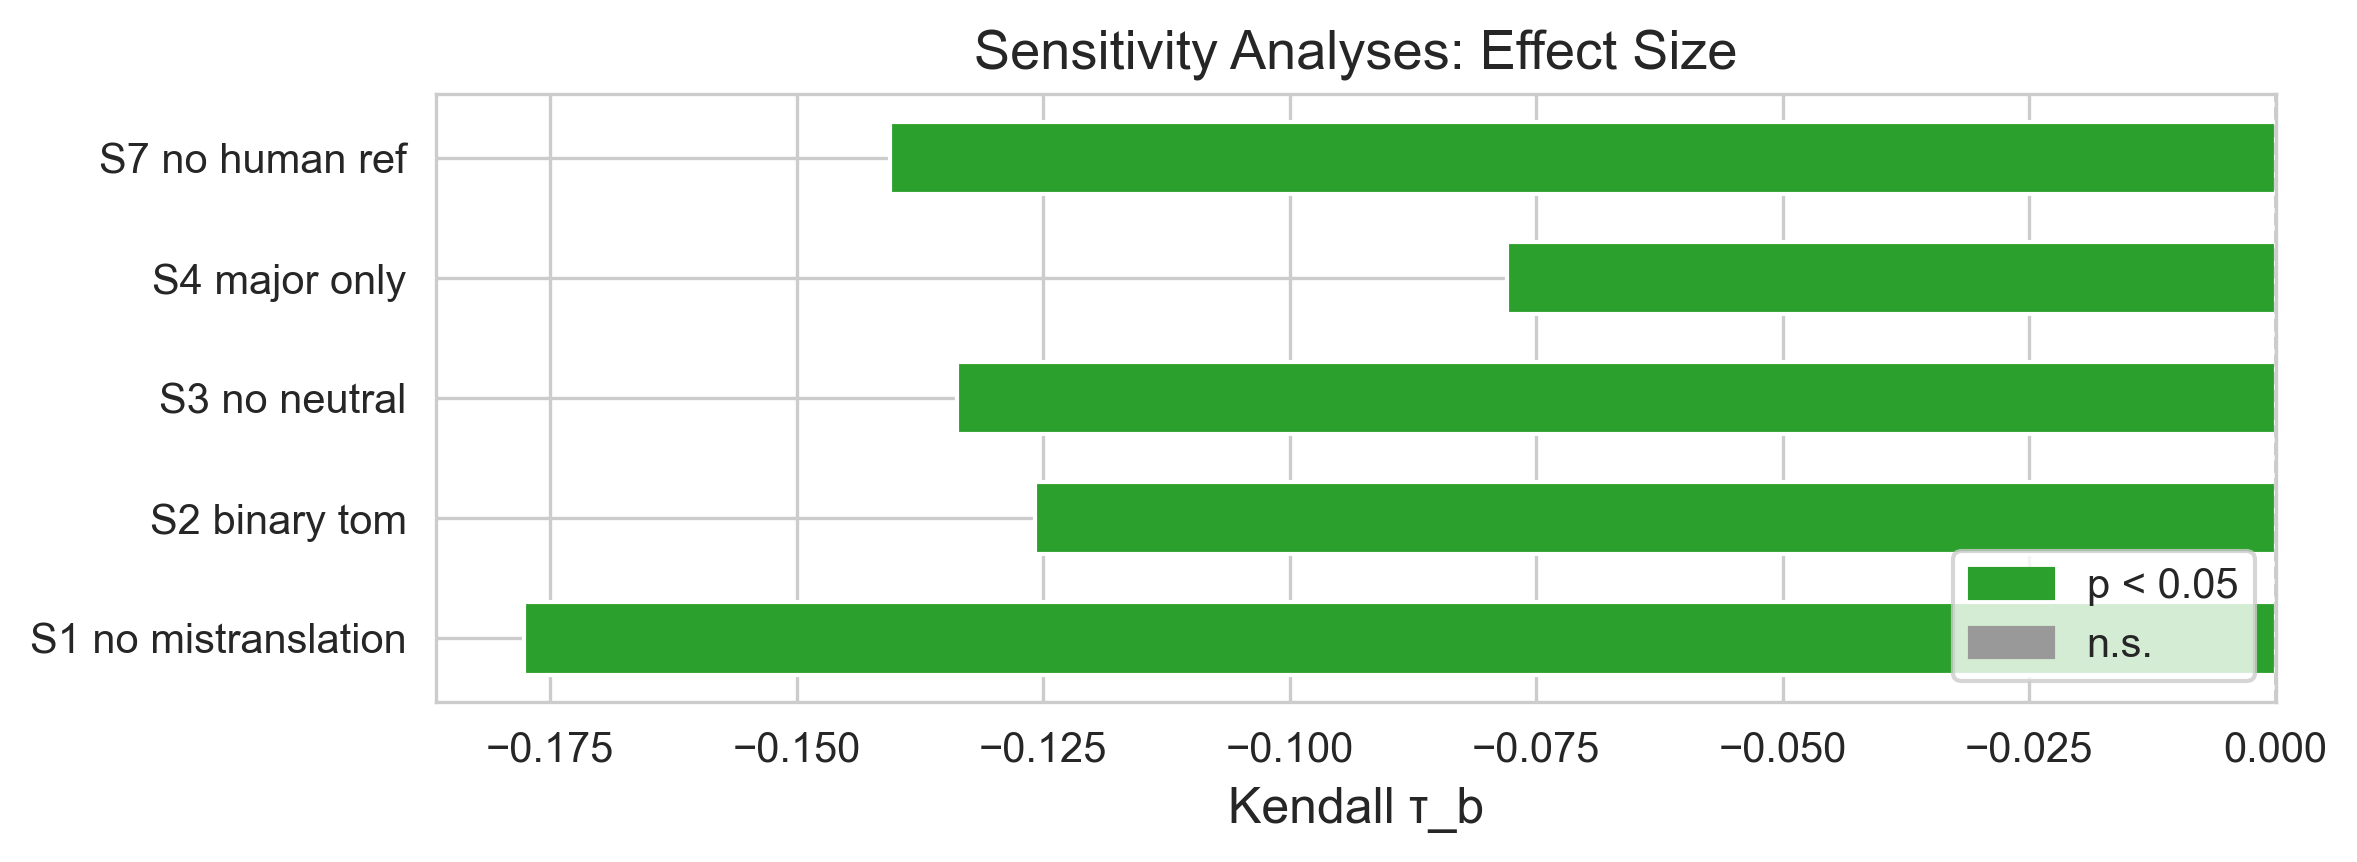
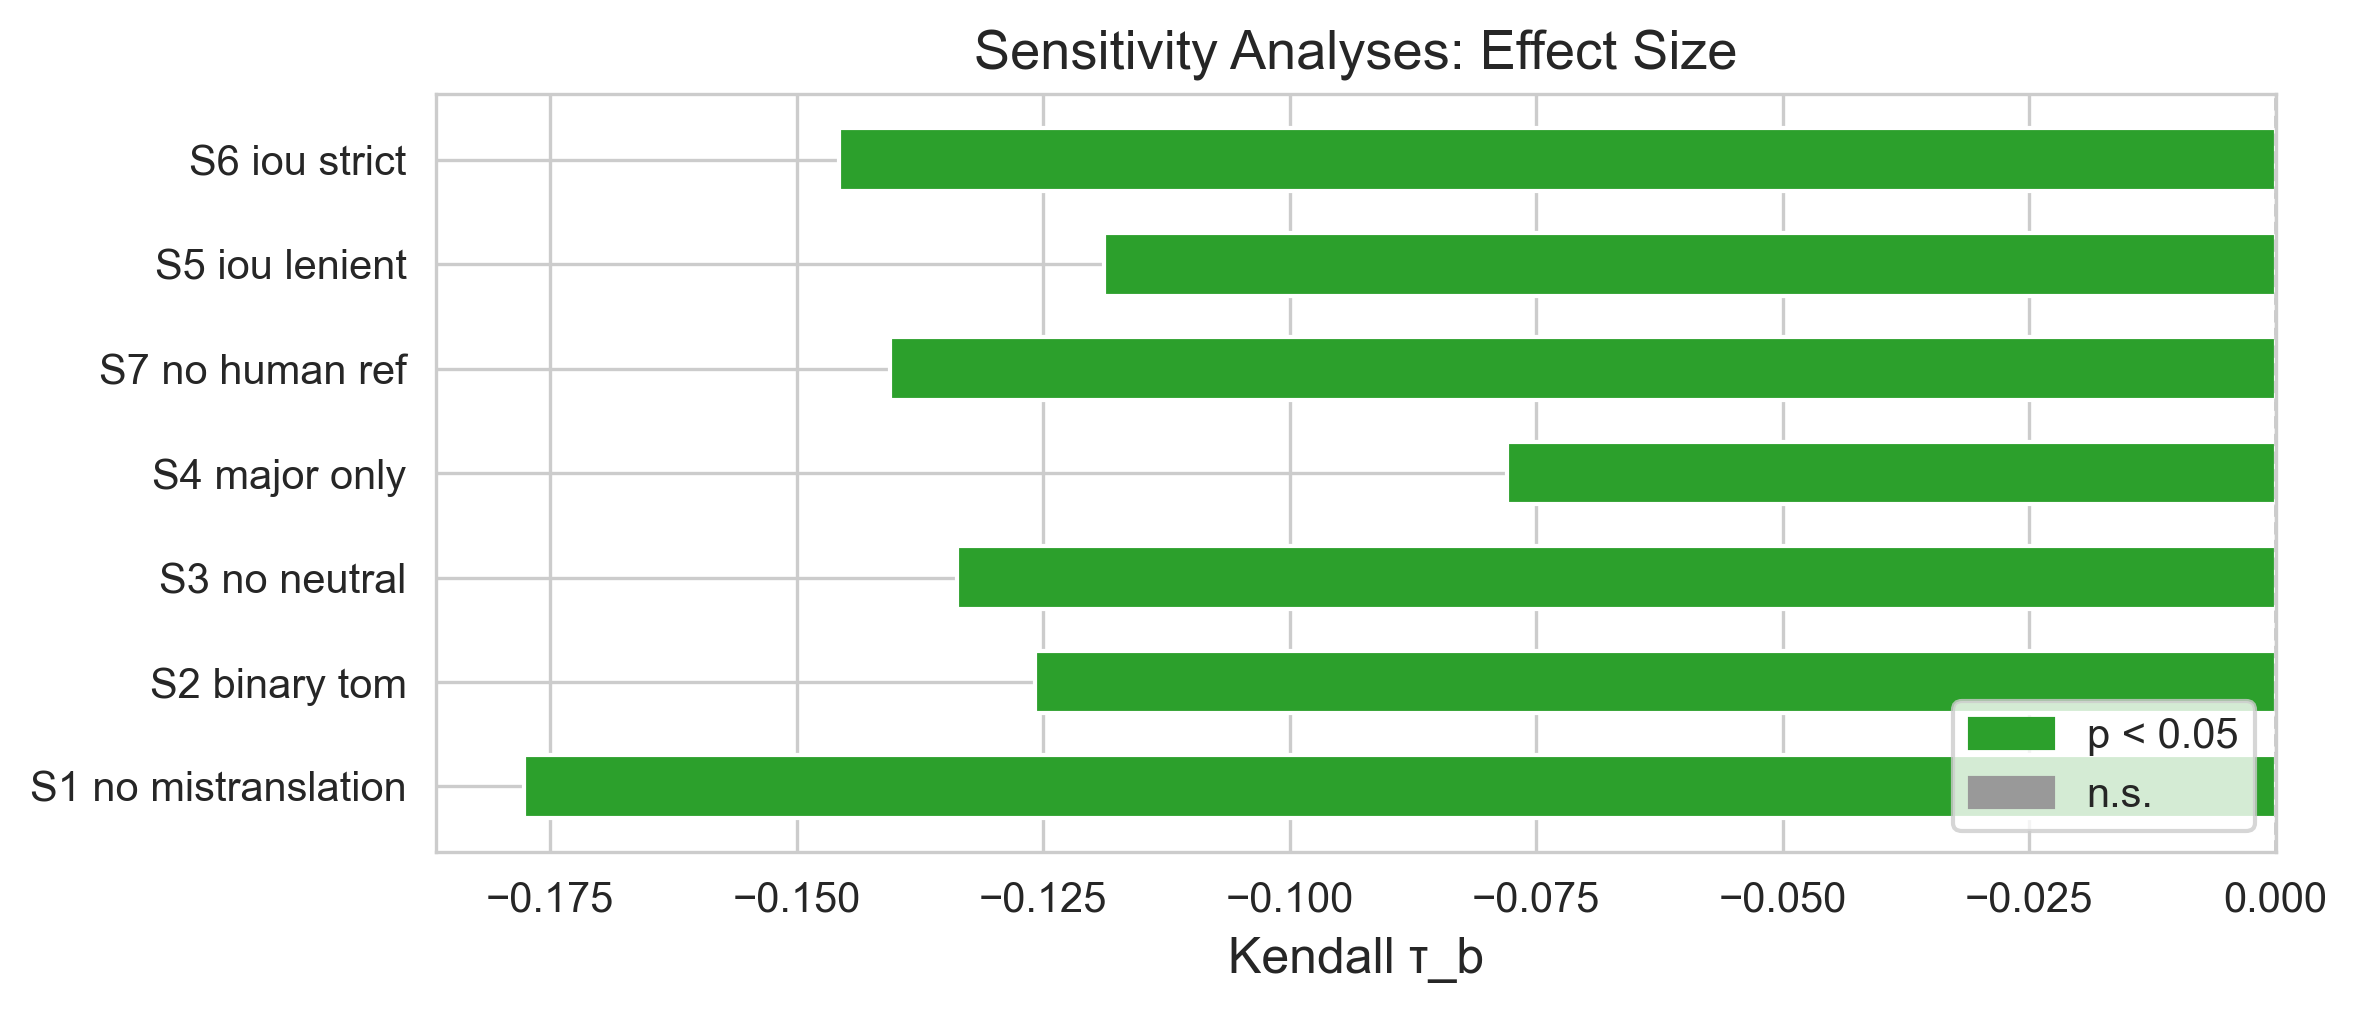
Add S5/S6 IoU-threshold variants to ToM validation results
The 2026-04-07 run skipped the IoU variants. A full run on 2026-10-01
reproduced every other result unchanged, so only the S5 (IoU 0.3) and
S6 (IoU 0.7) entries and the sensitivity summary were replaced.

Changed region(s): [[0.0, 0.5429, 0.9911, 0.9652], [0.031, 0.0302, 0.9911, 0.3921], [0.0619, 0.4223, 0.9601, 0.5128]]

diff --git a/outputs/tom_validation/EXPERIMENTS.md b/outputs/tom_validation/EXPERIMENTS.md
@@ -3,7 +3,7 @@
 **Output directory:** [outputs/tom_validation/](.)
 **Pipeline source:** [experiments/tom_validation/](../../experiments/tom_validation/)
 **Spec:** [specs/tom-validation-experiment-spec.md](../../specs/tom-validation-experiment-spec.md)
-**Run date (artifacts):** 2026-04-07
+**Run date (artifacts):** 2026-04-07; S5/S6 IoU variants added 2026-10-01
 
 ---
 
@@ -174,7 +174,7 @@ Two spans from *different* raters merge into the same cluster when `IoU ≥ τ`.
 | Lenient | 0.3 | Sensitivity S5 |
 | Strict | 0.7 | Sensitivity S6 |
 
-For the recorded run, `--skip-iou-variants` was active, so S5/S6 are reported as skipped (`metadata.skip_iou_variants = true`).
+The original 2026-04-07 run used `--skip-iou-variants`. S5/S6 were added on 2026-10-01 from a full run without that flag; every other result in that run was identical to the original, so only the S5/S6 entries and the sensitivity summary in [all_results.json](all_results.json) were replaced (`metadata.iou_variants_added`).
 
 **Result:** **45,936 aligned errors** at τ = 0.5 (`metadata.n_aligned_errors`).
 
@@ -393,14 +393,24 @@ H3 supported with mixed-model evidence. R environment: R 4.2.3, lme4 1.1.35.
 | **S2** | Binary ToM: L0–L1 vs. L2–L3 (Strategy C) | 45,936 | −0.126 | ✓ |
 | **S3** | Drop `severity == Neutral` | 44,556 | −0.134 | ✓ |
 | **S4** | Major-only | 6,502 | −0.078 | ✓ |
-| S5 | Lenient IoU = 0.3 | — | — | skipped (`--skip-iou-variants`) |
-| S6 | Strict IoU = 0.7 | — | — | skipped (`--skip-iou-variants`) |
+| **S5** | Lenient IoU = 0.3 | 43,451 | −0.119 | ✓ |
+| **S6** | Strict IoU = 0.7 | 48,469 | −0.146 | ✓ |
 | **S7** | Exclude Human references | 36,729 | −0.141 | ✓ |
 | **S8** | Per-system V1 (10 systems) | — | 9 / 10 sig. | ✓ |
 
 The S8 per-system breakdown is in [all_results.json](all_results.json) → `sensitivity.S8_per_system`. Only `eTranslation.737` fails (τ-b = −0.009, p = 0.24); the other nine systems all show significant negative trends, with the strongest effects on `Online-A.1574` (−0.219), `Online-B.1590` (−0.226), and `Tohoku-AIP-NTT.890` (−0.230).
 
-**Convergence summary (`sensitivity._summary`):** 6 / 6 testable variants significant — convergence **MET**.
+**IoU threshold (S5/S6).** Mean detection rate by level at each alignment threshold:
+
+| τ | n | L0 | L1 | L2 | L3 | τ-b |
+|---|----|----|----|----|----|-----|
+| 0.3 (S5) | 43,451 | 0.527 | 0.526 | 0.494 | 0.430 | −0.119 |
+| 0.5 (primary) | 45,936 | 0.513 | 0.499 | 0.462 | 0.411 | −0.141 |
+| 0.7 (S6) | 48,469 | 0.489 | 0.482 | 0.433 | 0.395 | −0.146 |
+
+The ordering L0 ≥ L1 > L2 > L3 holds at every threshold, but the effect size depends on τ: lenient matching weakens it (−0.119), because merging partially overlapping spans raises detection rates most for L2. Part of the primary effect therefore reflects raters disagreeing on span boundaries rather than on whether an error exists. The direction of the trend is robust to τ; its magnitude is not. At τ = 0.3, L0 and L1 are practically tied (0.527 vs. 0.526), consistent with the non-significant L0–L1 contrast in V2.
+
+**Convergence summary (`sensitivity._summary`):** 8 / 8 variants significant — convergence **MET**.
 
 ---
 
@@ -411,7 +421,7 @@ The S8 per-system breakdown is in [all_results.json](all_results.json) → `sens
 | [V1_detection_boxplot.png](V1_detection_boxplot.png) | Box plot of detection rate by ToM level with severity-coloured jitter and means annotated. |
 | [V2_category_heatmap.png](V2_category_heatmap.png) | Horizontal bars of per-MQM-subcategory mean detection rate, coloured by ToM level. |
 | [V3_rater_slopes.png](V3_rater_slopes.png) | Forest plot of per-rater ToM slopes from V4. |
-| [sensitivity_summary.png](sensitivity_summary.png) | τ-b for each testable sensitivity variant; green = significant, grey = n.s. |
+| [sensitivity_summary.png](sensitivity_summary.png) | τ-b for each sensitivity variant (S1–S8); green = significant, grey = n.s. |
 
 Generation code: [figures.py](../../experiments/tom_validation/figures.py).
 
@@ -432,11 +442,11 @@ Generation code: [figures.py](../../experiments/tom_validation/figures.py).
 ## 15. Reproducing the run
 
 ```powershell
-# Full pipeline, primary IoU only (matches what produced the JSON in this folder)
-python -m experiments.tom_validation.run_all --skip-iou-variants
-
-# Full pipeline including S5/S6
+# Full pipeline including S5/S6 (reproduces everything in this folder; ~8 min)
 python -m experiments.tom_validation.run_all
+
+# Faster run, primary IoU only (S5/S6 reported as skipped)
+python -m experiments.tom_validation.run_all --skip-iou-variants
 
 # Skip the R-based CLMM/GLMM (Python-only fallback)
 python -m experiments.tom_validation.run_all --skip-r
@@ -451,6 +461,6 @@ The R analyses require R ≥ 4.2 with packages `ordinal` and `lme4` installed. I
 - **H1 confirmed:** detection rate decreases monotonically with ToM level (V1 J = 3.80e8, τ-b = −0.141, p < 1e-6).
 - **H2 confirmed:** the ToM effect survives covariate adjustment and crossed random effects of `system` × `doc` (CLMM β = −0.326, 95 % CI [−0.346, −0.307]).
 - **H3 supported:** raters differ systematically in ToM sensitivity (GLMM random-slope LR χ²(2) = 202.5, p < 1e-6); slopes range from −0.21 to +0.02.
-- **Robustness:** V1 is significant in the primary analysis and in 6 / 6 testable sensitivity variants, including a per-system check where 9 / 10 MT systems show the predicted decreasing trend.
+- **Robustness:** V1 is significant in the primary analysis and in all 8 sensitivity variants, including a per-system check where 9 / 10 MT systems show the predicted decreasing trend. The direction is stable across IoU thresholds 0.3–0.7, but the effect size is not (τ-b −0.119 to −0.146), so claims should rest on the ordering rather than the magnitude.
 
 The hierarchy therefore predicts a behavioural difficulty ordering that is reproducible across category-mapping ambiguity, severity weighting, system identity, and modelling choice.
